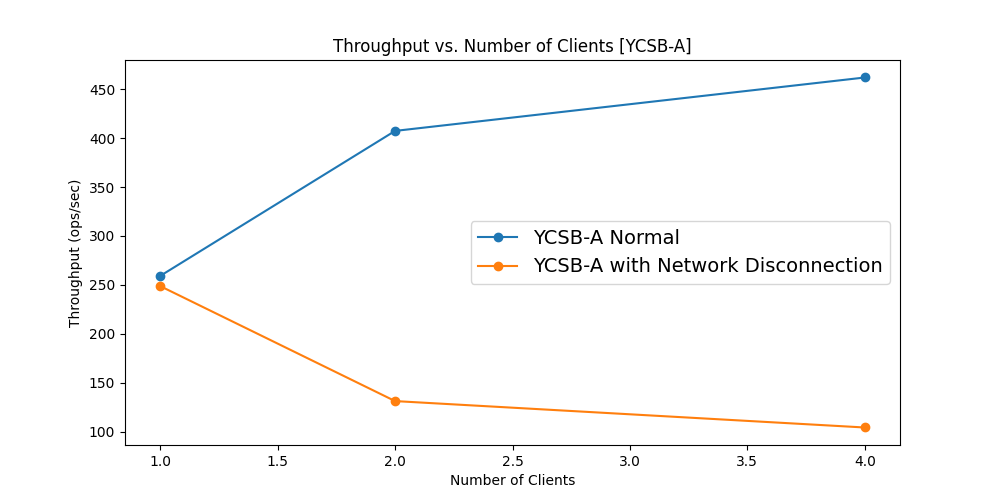
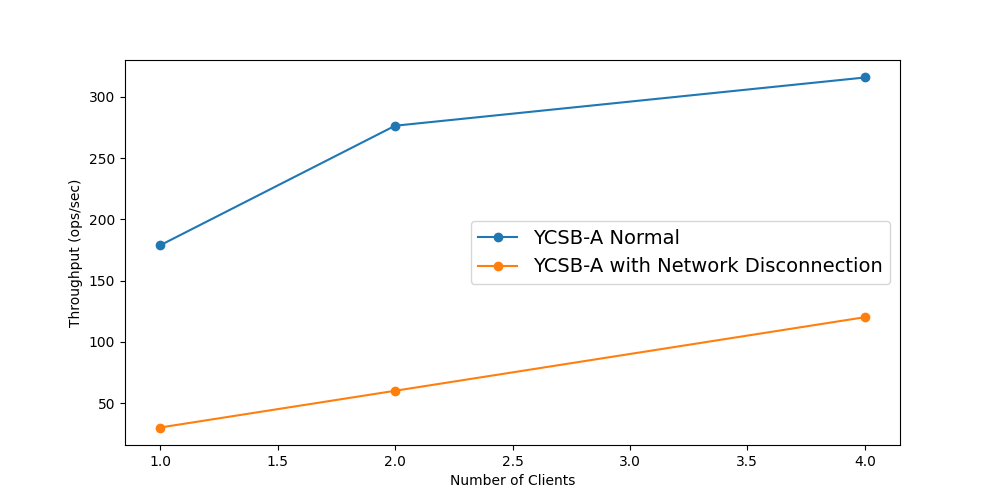
d

diff --git a/plot/plot.py b/plot/plot.py
@@ -5,12 +5,18 @@ fontSize = 14
 
 # Data points for YCSB-A
 x_a = [1, 2, 4]
-y_a= [259.17,407.36,461.94]
+y_a= [(5565+5322+5208)/90,(8411+8182+8288)/90 ,(9780+9378+9268)/90]
+
+y_a_lat = [29.99356, 59.992, 120.0688 ]
 
 
 x_a_d = [1, 2, 4 ]
 
-y_a_d = [248.73,131.24,104.24]
+y_a_d = [(5438+5353+5265)/90,(3598+3202+3466)/90,(2883+3033+2844)/90]
+
+y_a_d_lat = [29.992,60.0031,120.0489]
+
+
 
 
 
@@ -18,8 +24,7 @@ y_a_d = [248.73,131.24,104.24]
 # Creating the plot for YCSB-A
 plt.figure(figsize=(10, 5))
 plt.plot(x_a, y_a, marker='o', label='YCSB-A Normal')
-plt.plot(x_a_d, y_a_d, marker='o', label='YCSB-A with Network Disconnection')
-plt.title('Throughput vs. Number of Clients [YCSB-A]')
+plt.plot(x_a_d, y_a_lat, marker='o', label='YCSB-A with Network Disconnection')
 plt.xlabel('Number of Clients')
 plt.ylabel('Throughput (ops/sec)')
 plt.legend(fontsize=fontSize)
@@ -27,26 +32,38 @@ plt.rcParams["font.size"] = 14
 plt.savefig('/home/Jamiroq/Documents/GitHub/myRabia/plot/throughput_plot-A.png')
 plt.close()
 
-# Data points for YCSB-B
-x_b = [1, 2, 4 ]
-
-y_b = [763.34,1484.16,2767.86]
-
-
-
-
-
-
-# Creating the plot for YCSB-B
+# Creating the plot for YCSB-A
 plt.figure(figsize=(10, 5))
-plt.plot(x_b, y_b, marker='o', label='YCSB-B Normal')
-plt.title('Throughput vs. Number of Clients [YCSB-B]')
+plt.plot(x_a, y_a_lat, marker='o', label='YCSB-A Normal')
+plt.plot(x_a_d, y_a_d_lat, marker='o', label='YCSB-A with Network Disconnection')
+plt.xlabel('Number of Clients')
+plt.ylabel('Latency for each operation (ms)')
+plt.legend(fontsize=fontSize)
+plt.rcParams["font.size"] = 14
+plt.savefig('/home/Jamiroq/Documents/GitHub/myRabia/plot/Latency-A.png')
+plt.close()
+
+
+x_a = [1, 2, 4]
+y_a= [(5565+5322+5208)/90,(8411+8182+8288)/90 ,(9780+9378+9268)/90]
+
+
+x_a = [1, 2, 4]
+y_a_crash = [(5436+5448+5008)/90,(7638+7979+8446)/90, (8673+9129+8514)/90]
+y_a_crash_lat = [29.9972,60.0035,120.033]
+
+plt.figure(figsize=(10, 5))
+plt.plot(x_a, y_a, marker='o', label='YCSB-A Normal')
+plt.plot(x_a_d, y_a_crash, marker='o', label='YCSB-A with Replica Crash')
+plt.title('Throughput vs. Number of Clients [YCSB-A]')
 plt.xlabel('Number of Clients')
 plt.ylabel('Throughput (ops/sec)')
 plt.legend(fontsize=fontSize)
-plt.rcParams["font.size"] = fontSize
-plt.savefig('/home/Jamiroq/Documents/GitHub/myRabia/plot/throughput_plot-B.png')
+plt.rcParams["font.size"] = 14
+plt.savefig('/home/Jamiroq/Documents/GitHub/myRabia/plot/throughput_with_crash_plot-A.png')
 plt.close()
+
+
 
 # Data points for YCSB-C
 x_c = [1, 2, 4 ]

diff --git a/replica/replica.go b/replica/replica.go
@@ -275,7 +275,7 @@ func resolveTermination(termination TerminationValue, ownProposal CommandData){
 	parseWriteCommand(termination.CommandData.Op, StateMachine)
 
 	IP := strings.Split(termination.CommandData.ReplicaAddr, ":")[0]
-	if ownIP == IP  {
+	if ownIP == IP && !termination.isNull {
 		responceChannelMapMutex.Lock()
 		responseChannelMap[termination.CommandData.ClientAddr] <- ResponseToClient{Value: 0, ClientAddr: termination.CommandData.ClientAddr}
 		responceChannelMapMutex.Unlock()
